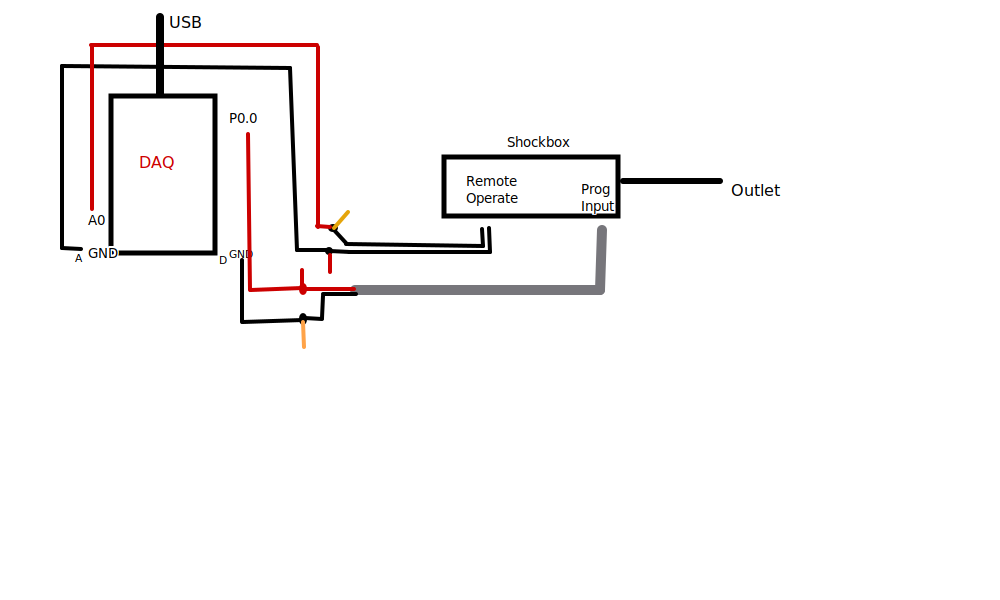
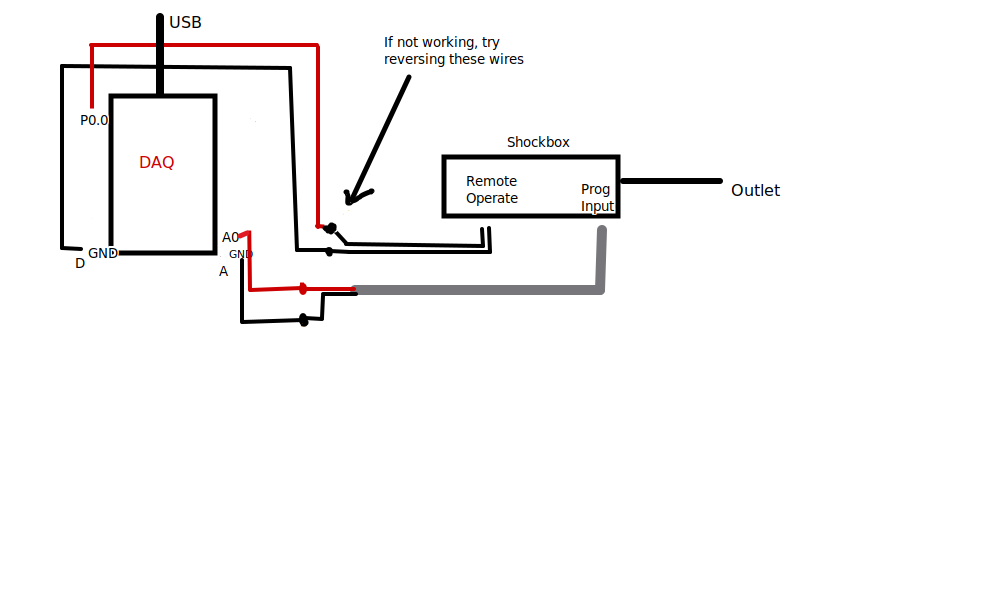
doc change

diff --git a/README.md b/README.md
@@ -43,6 +43,19 @@ Find the tap.exe in the dist/ folder.
 
 To run the software, ensure that the DAQ card is plugged in to the computer via USB. Then, ensure that the DAQ card is electrically connected to the Coulbourn Shocker. See `/diagrams/wire-diagram.png` as a reference.
 
+### IMPORTANT
+
+Never send more than 5V to the shockbox.
+
+You can verify that your computer can interface with the DAQ card by running the driver
+test software. See `/diagrams/NI-manual-shock-tutorial.mp4` as a reference for how to send electrical signals to the DAQ card manually. To summarize the reference video:
+
+1. Open NI Device Monitor. (If you cannot locate the program, try unplugging and re-plugging the USB connection.)
+2. Click 'Test this device'
+3. Under Digital I/O, 1. Select Port `port0`, 2. Set `port0/line0:0` to output, and 3. Select the switch to turn on & off the remote operation, and click `Start` to send the signal to the DAQ.
+4. Under Analog I/O, 1. Set channel to Dev1/ao0, mode Voltage DC, 2. Set Max Output Limit (V) to `2.5` and Min Output Limit (V) to `0`, and 3. Adjust the output value and click `Update` to send the signal to the DAQ.
+5. A shock should be generated while Digital I/O is set to `HIGH` and Analog I/O is updated to a positive voltage.
+
 ## Usage
 
 Ensure that the DAQ card is accessible to the computer running the GUI. You can verify this using NI software that is installed along with the NI-DAQmx driver.
